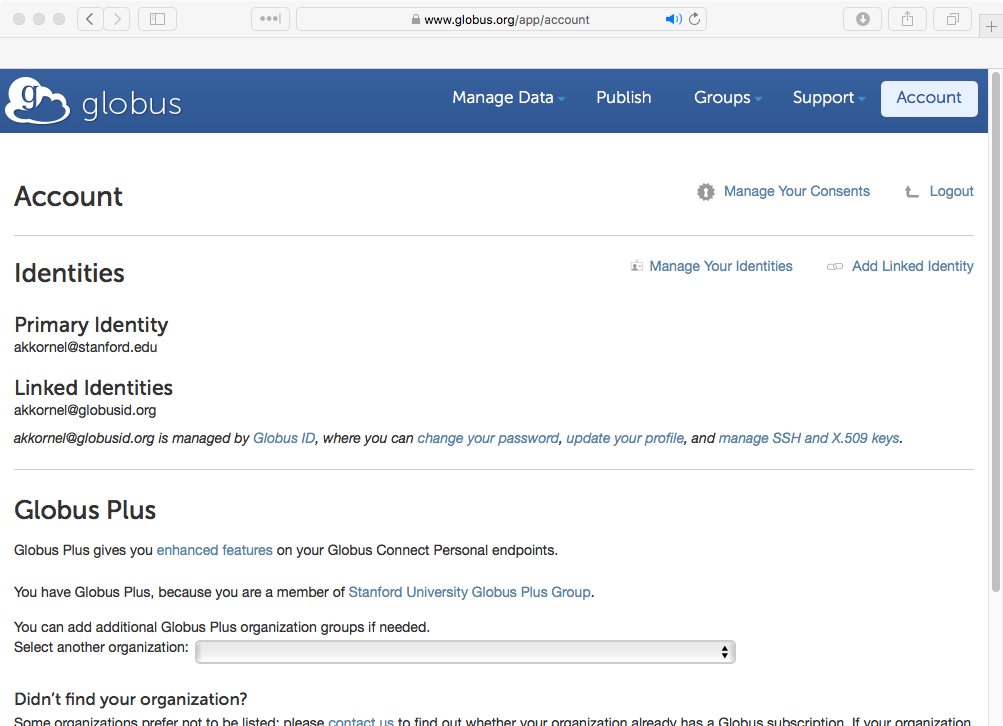
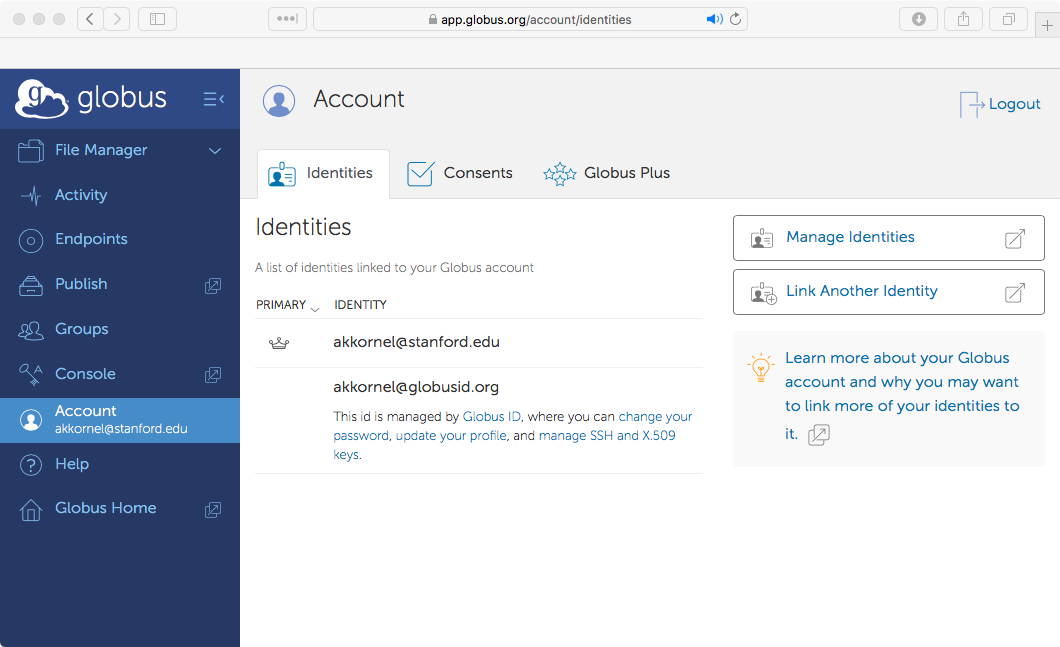
Update images for new app.globus.org
Since all of the screen shots were taken, Globus pushed out a major UI
update, moving from globus.org/app to app.globus.org.

This commit updates all of the screen shot images that have changed.

Also, some of the content was changed, reflecting how some things moved
around.

Closes #36

diff --git a/client/install.md b/client/install.md
@@ -39,7 +39,7 @@ software, and configuring both the software and your new endpoint.
 {% include info-box.html
    icon="globe"
    header="Network Access Required"
-   content="Globus Connect Personal needs to be able to make outbound Internet connections.  Connections must be allowed out to 54.237.254.192/29 port 2223 (for control traffic), and to any Internet host on TCP ports 50000-51000 (for data transfer).  Connections must also be allowed to AWS S3 on TCP port 443 (HTTPS), for the new version check to succeed."
+   content="Globus Connect Personal needs to be able to make outbound Internet connections.  If Globus Connect Personal reports problems connecting, talk to your IT contact.  Connections must be allowed out to 54.237.254.192/29 port 2223 (for control traffic), and to any Internet host on TCP ports 50000-51000 (for data transfer).  Connections must also be allowed to AWS S3 on TCP port 443 (HTTPS), for the new version check to succeed."
 %}
 
 {% include info-box.html
@@ -52,7 +52,7 @@ software, and configuring both the software and your new endpoint.
    
 # Create an Endpoint
 
-To begin, [log in to Globus](https://www.globus.org/app) and go to the
+To begin, [log in to Globus](https://app.globus.org/) and go to the
 _Endpoints_ page.
 
 {% include hero-image.html
@@ -63,8 +63,9 @@ _Endpoints_ page.
    caption-text=""
 %}
 
-On the _Endpoints_ page, click on _add Globus Connect Personal endpoint_ (in
-the top-center of the page).  You will be taken to the endpoint creation page.
+On the **Endpoints** page, click on **Create New Endpoint** (in the upper-right
+of the page), and then click on **Globus Connect Personal**.  You will be taken
+to the endpoint creation page.
 
 {% include hero-image.html
    src="assets/client/Create Personal Endpoint.png"
@@ -83,7 +84,14 @@ site.
    content="It is preferable to provide detail here, especially when you are trying to find your endpoint in the future."
 %}
 
-Once you have decided on a display name, click the _Generate Setup Key_ button.
+{% include info-box.html
+   icon="lock-open"
+   header="High Assurance Endpoints"
+   content="At this time, Stanford does not have the Globus subscription needed to support High Risk data.  So, please leave the <em>high assurance endpoint</em> option off for now."
+%}
+
+Once you have decided on a display name, make sure your @stanford.edu email
+address is selected, and click the **Generate Setup Key** button.
 
 {% include hero-image.html
    src="assets/client/Endpoint Setup Key.png"
@@ -159,8 +167,7 @@ site has been continuing to show your setup key:
 
 At the time the setup key was generated, Globus created an endpoint for you.
 To view the endpoint's information, click on your endpoint's name, which
-appears to the right of the <i class="fas fa-check" title="green check mark"
-style="color: green"></i>.
+appears inside the green box.
 
 {% include hero-image.html
    src="assets/client/New Endpoint Overview.png"
@@ -171,7 +178,7 @@ style="color: green"></i>.
 %}
 
 Most of the fields are empty, and a few should be filled in.  Click on the
-_Edit Attributes_ button, and make the following changes:
+**<i class="fas fa-pencil-alt"></i> Edit Attributes** button, and make the following changes:
 
 * Change the _Contact E-mail_ to be your email address.
 

diff --git a/server/finish.md b/server/finish.md
@@ -65,7 +65,7 @@ The above commands make two major changes:
 
 Now that Globus Connect Server is running, and GridFTP's configuration has been
 updated, some final endpoint configuraion must be performed on the [Globus web
-site](https://www.globus.org/app).  
+site](https://app.globus.org/).
 
 {% include info-box.html
    icon="asterisk"
@@ -73,7 +73,7 @@ site](https://www.globus.org/app).
    content="Since we are performing endpoint configuration, you will need to log in using the same Globus ID and password that you used during endpoint setup.  If you are using one of the common Globus IDs, talk to the owner of the Globus ID, who will work with you to finish configuration."
 %}
 
-Log in, and go to the Endpoints page.
+Log in, and go to the **Endpoints** page.
 
 {% include hero-image.html
    src="assets/server/Recent Endpoints.png"
@@ -84,7 +84,7 @@ Log in, and go to the Endpoints page.
 %}
 
 When you reach the Endpoints page, at the top of the list of endpoints, click
-on _administered by me_.  The list of endpoints will switch to show endpoints
+on **Administered By You**.  The list of endpoints will switch to show endpoints
 administered by your Globus ID.
 
 {% include hero-image.html
@@ -100,7 +100,7 @@ will be taken to the Endpoint Overview page.
 
 ## Endpoint Overview
 
-Click on the _Edit Attributes_ button, so that you can fill in the missing
+Click on the **Edit Attributes** button, so that you can fill in the missing
 endpoint information.
 
 {% include hero-image.html
@@ -148,7 +148,7 @@ All of the fields should be filled in.  Here are some guidelines:
   are true:
 
   1. When you did your [initial configuration]({{ "server/configure.html" |
-     relative_url }}), you had set `RequireEncryption` to `True`; or…
+     relative_url }}), you had set `RequireEncryption` to `True`.
 
   2. Your endpoint has access to Moderate Risk data.
 
@@ -217,7 +217,7 @@ obtain the correct value.
 {% include info-box.html
    icon="list-ul"
    header="Settings still missing?"
-   content="If the _Server_ or _Identity Provider_ settings are wrong, you can also try fixing them by re-running the `globus-connect-server-setup` command.  If you still have issues, then you should reach out to Support."
+   content="If the <em>Server</em> or <em>Identity Provider</em> settings are wrong, you can also try fixing them by re-running the <pre>globus-connect-server-setup</pre> command.  If you still have issues, then you should reach out to Support."
 %}
 
 To finish this tab, go up to the second section, contains the _Network Use_

diff --git a/accounts/unlink.md b/accounts/unlink.md
@@ -27,19 +27,19 @@ When you do find yourself needing to unlink an identity, follow this procedure.
    content="When you unlink an identity, all active transfers authenticated by that identity will be cancelled.  You should wait for active transfers to complete before you proceed."
 %}
 
-To unlink an identity, [log in to Globus](https://www.globus.org/app/transfer)
-and click on the _Account_ link (in the upper-right corner of the page).
+To unlink an identity, [log in to Globus](https://app.globus.org/)
+and click on the **<i class="fas fa-user-circle"></i> Account** link (near the bottom-right corner of the page).
 
 {% include hero-image.html
    src="assets/accounts/Transfer Page.png"
    alt="Globus transfer screen"
    caption-overlay=true
    caption-header="The Globus 'Transfer Files' screen"
-   caption-text="The 'Account' link is in the upper-right corner of the page."
+   caption-text="The 'Account' link is in the bottom-left corner of the page."
 %}
 
 The Account page displays your primary and linked identities.  Near the
-upper-right of the page, locate and click on the _Manage Your Identities_ link.
+upper-right of the page, locate and click on the **<i class="fas fa-id-card"></i> Manage Identities** link.
 
 {% include hero-image.html
    src="assets/accounts/Account Management.png"
@@ -103,7 +103,7 @@ this whenever you change your primary institutional affiliation.
 
 ### Step 1: Check Your Endpoints
 
-Check all of the endpoints and shares you administer, making sure that your
+Check all of the endpoints (including shared endpoints) you administer, making sure that your
 _current_ primary identity is on the list of administrators.  Globus Connect
 Personal endpoints—and shared endpoints created from Globus Connect Personal
 endpoints—are excluded from this step, because they can not have multiple

diff --git a/accounts/leaving.md b/accounts/leaving.md
@@ -76,10 +76,9 @@ First, you should check on the endpoints you administer.  [Log in to Globus](htt
    caption-text=""
 %}
 
-In the upper-right quadrant of the page are the _Recent Activity_ icons.  The
-circle, triangle, and octagon represent transfers which are OK, transfers that
-have warnings, and transfers which have been cancelled.  Make sure there are no
-transfers in progress.
+In the left-side menu is the **Activity** option.  If any transfers are
+in progress, a number will appear on top of the icon.  You should only continue
+when there are no transfers in progress.
 
 ### Step 2: Uninstall Globus Connect
 
@@ -101,7 +100,7 @@ server.
 You will now need to either delete any endpoints that you administer, or
 transfer them to someone else.
 
-Click on the _Endpoints_ link (also located in the upper-right quadrant).  You
+Click on the **Endpoints** option (also located in the left-side menu).  You
 should be taken to the list of recently-used endpoints.
 
 {% include hero-image.html
@@ -150,7 +149,7 @@ taken to the endpoint's overview page.
    caption-text=""
 %}
 
-Next, click on the _Delete Endpoint_ button, located on the right side of the
+Next, click on the **<i class="fas fa-times-circle"></i>Delete Endpoint** button, located on the right side of the
 page.  A warning will appear.
 
 {% include hero-image.html
@@ -161,7 +160,7 @@ page.  A warning will appear.
    caption-text=""
 %}
 
-If you are sure about deleting the endpoint, click on the _Delete endpoint_
+If you are sure about deleting the endpoint, click on the **Delete endpoint**
 button, and the endpoint will be deleted.
 
 You will need to repeat this step (either deletion, or transfer) for each

diff --git a/accounts/link.md b/accounts/link.md
@@ -26,7 +26,7 @@ the person's _primary identity_.
    content="If your group owns, or has access to, a Globus ID for the group, you <b>must not</b> link it to your primary identity.  Those Globus IDs are for entities, and may not be linked to individual people."
 %}
 
-To link an identity, go to [globus.org/app](https://globus.org/app).  If you
+To link an identity, go to [app.globus.org](https://app.globus.org).  If you
 are not already logged in, then you will be presented with the login page:
 
 {% include hero-image.html
@@ -47,7 +47,7 @@ Log in as normal, and you will arrive at the transfer page:
    caption-text=""
 %}
 
-Click on the *Account* link (in the upper-right corner of the page).  This will
+Click on the **<i class="fas fa-user-circle"></i> Account** option (near the bottom-left corner of the page).  This will
 take you to the Account Management page:
 
 {% include hero-image.html
@@ -59,11 +59,9 @@ take you to the Account Management page:
 %}
 
 The Account Management page displays your current primary identity (likely your
-Stanford identity), any linked identites, as well as your [Globus Plus]({{
-"accounts/plus.html" | relative_link }}) status.
+Stanford identity) and any linked identites.
 
-To link a new identity, click on _Add Linked Identity_, near the upper-right of
-the page.
+To link a new identity, click on **<i class="fas fa-id-card"></i><i class="fas fa-plus-circle"></i> Link Another Identity**, on the right of the page.
 
 {% include hero-image.html
    src="assets/accounts/Add Linked Identity.png"

diff --git a/client/plus.md b/client/plus.md
@@ -81,7 +81,7 @@ page](https://www.globus.org/app/account).
    alt="The 'Globus Account' page, showing that Globus Plus is active."
    caption-overlay=false
    caption-header="This person has access to Globus Plus."
-   caption-text="If the person was affiliated with multiple institutions, then she might have had access to Globus Plus through multiple affiliations.  In this case, only one is showin."
+   caption-text="If the person was affiliated with multiple institutions, then she might have had access to Globus Plus through multiple affiliations.  In this case, only one is active (the other was used for a training session, and has been disabled)."
 %}
 
 Remember, you only need Globus Plus enabled once.  Even if you have multiple

diff --git a/accounts/create.md b/accounts/create.md
@@ -15,7 +15,7 @@ title_line: false
 Your Globus account is created automatically when you first log in to
 Globus.
 
-To begin, go to [globus.org/app](https://globus.org/app).  You will be
+To begin, go to [app.globus.org](https://app.globus.org/).  You will be
 presented with the login page:
 
 {% include hero-image.html
